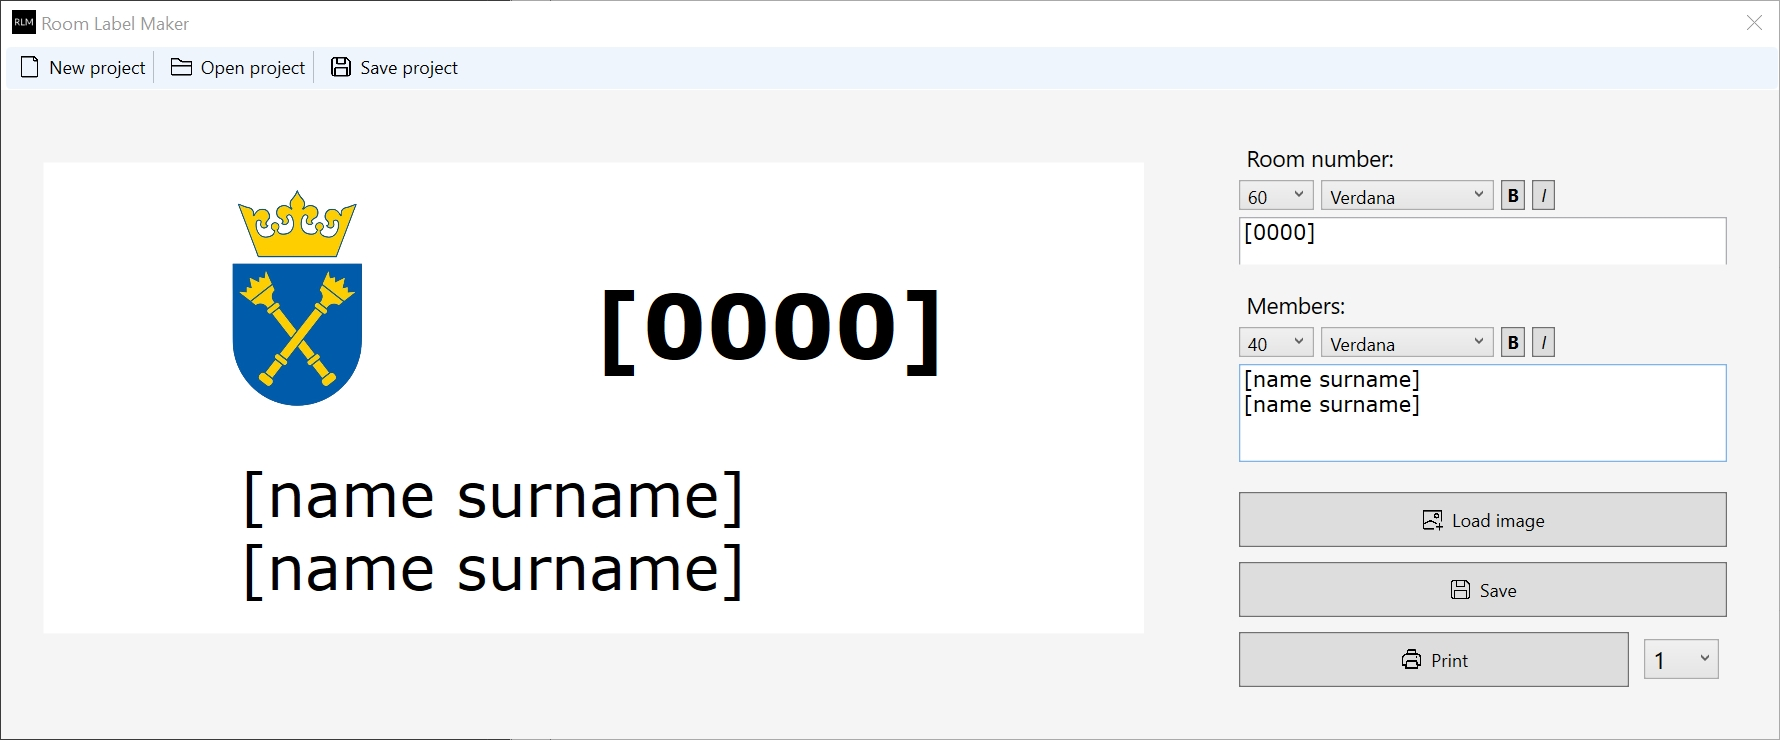
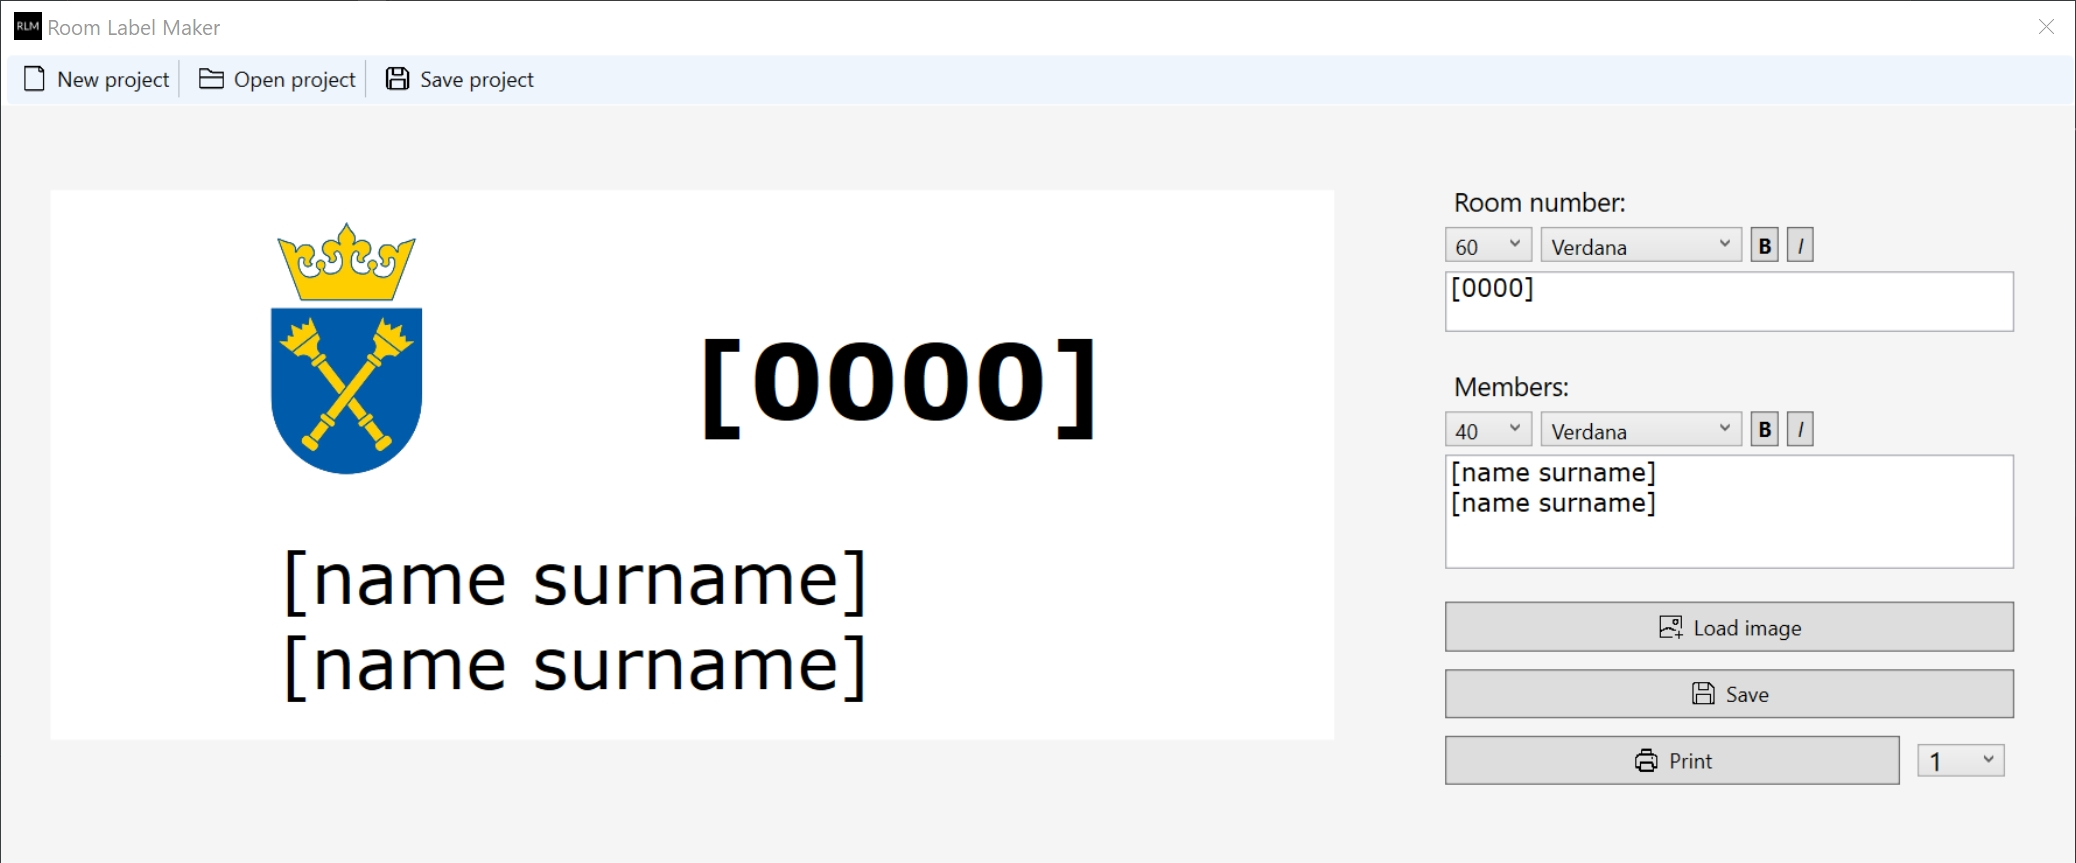
Fix bold, italic, Update readme.md
Fix bold, italic
PrintHelper refactor
Update readme.md

diff --git a/app/RoomLabelMakerApp/Views/MainView.xaml b/app/RoomLabelMakerApp/Views/MainView.xaml
@@ -100,12 +100,13 @@
             <!-- Right panel -->
             <Grid Grid.Column="1" Grid.Row="1" Margin="10">
                 <Grid.RowDefinitions>
-                    <RowDefinition Height="25*"/>
-                    <RowDefinition Height="73*"/>
-                    <RowDefinition Height="148*"/>
-                    <RowDefinition Height="49*"/>
-                    <RowDefinition Height="49*"/>
-                    <RowDefinition Height="49*"/>
+                    <RowDefinition Height="1*"/>
+                    <RowDefinition Height="11*"/>
+                    <RowDefinition Height="14*"/>
+                    <RowDefinition Height="4*"/>
+                    <RowDefinition Height="4*"/>
+                    <RowDefinition Height="4*"/>
+                    <RowDefinition Height="1*"/>
                 </Grid.RowDefinitions>
                 <Grid.ColumnDefinitions>
                     <ColumnDefinition Width="20"/>
@@ -113,8 +114,8 @@
                     <ColumnDefinition Width="20"/>
                 </Grid.ColumnDefinitions>
 
-                <StackPanel Grid.Row="0" Grid.Column="1" Margin="0,0,0,147" Grid.RowSpan="3">
-                    <Label Content="_Room number:" FontSize="15" Margin="5,0,5,0"/>
+                <StackPanel Grid.Row="1" Grid.Column="1">
+                    <Label Content="Room number:" FontSize="15" Margin="5,0,5,0"/>
                     <WrapPanel Height="20">
                         <ComboBox
                             ItemsSource="{Binding FontSizes}"
@@ -154,7 +155,7 @@
                 </StackPanel>
 
                 <StackPanel Grid.Row="2" Grid.Column="1">
-                    <Label Content="_Members:" FontSize="15" Margin="5,5,5,0"/>
+                    <Label Content="Members:" FontSize="15" Margin="5,0,5,0"/>
                     <WrapPanel Height="20">
                         <ComboBox
                             ItemsSource="{Binding FontSizes}"

diff --git a/app/RoomLabelMakerApp/Models/DoorLabelModel.cs b/app/RoomLabelMakerApp/Models/DoorLabelModel.cs
@@ -1,11 +1,4 @@
 using Newtonsoft.Json;
-using RoomLabelMakerApp.Views;
-using System.IO;
-using System.Windows;
-using System.Windows.Controls;
-using System.Windows.Documents;
-using System.Windows.Markup;
-using System.Windows.Xps.Packaging;
 namespace RoomLabelMakerApp.Models;
 
 
@@ -42,58 +35,5 @@ public class DoorLabelModel
         RoomNumber = d.RoomNumber;
         RoomMembers = d.RoomMembers;
         Image = d.Image;
-    }
-
-    public static void Print(FlowDocument flowDocument, int numberOfCopies)
-    {
-        var pd = new PrintDialog();
-        var stringCopy = XamlWriter.Save(flowDocument); // copy to prevent changes to the original Flow Document
-        if (XamlReader.Parse(stringCopy) is not FlowDocument flowDocumentCopy)
-            return;
-
-        CloneBlockInFlowDocument(flowDocumentCopy, numberOfCopies-1);
-
-        flowDocumentCopy.PageHeight = pd.PrintableAreaHeight;
-        flowDocumentCopy.PageWidth = pd.PrintableAreaWidth;
-        flowDocumentCopy.PagePadding = new Thickness(30);
-        flowDocumentCopy.ColumnGap = 0;
-        flowDocumentCopy.ColumnWidth = pd.PrintableAreaWidth;
-
-        
-        try
-        {
-            // create window for print view
-            if (File.Exists("PreviewPrinting.xps"))
-                File.Delete("PreviewPrinting.xps");
-        }
-        catch
-        {
-            // ignored
-        }
-
-        FixedDocumentSequence? document;
-        using (var xpsDocument = new XpsDocument("PreviewPrinting.xps", FileAccess.ReadWrite))
-        {
-            var writer = XpsDocument.CreateXpsDocumentWriter(xpsDocument);
-            writer.Write(((IDocumentPaginatorSource)flowDocumentCopy).DocumentPaginator);
-            document = xpsDocument.GetFixedDocumentSequence();
-        }
-
-        if (document == null) return;
-        var windows = new PrintPreviewView(document);
-        windows.ShowDialog();
-    }
-
-    private static void CloneBlockInFlowDocument(FlowDocument flowDocumentCopy, int numberOfCopies)
-    {
-        var block = flowDocumentCopy.Blocks.FirstBlock;
-        if (block == null) return;
-       
-        for (var i = 0; i < numberOfCopies; i++)
-        {
-            var xamlString = XamlWriter.Save(block);
-            if (XamlReader.Parse(xamlString) is not Block clonedBlock) return;
-            flowDocumentCopy.Blocks.Add(clonedBlock);
-        }
     }
 }

diff --git a/app/RoomLabelMakerApp/Utils/PrintHelper.cs b/app/RoomLabelMakerApp/Utils/PrintHelper.cs
@@ -1,0 +1,64 @@
+using RoomLabelMakerApp.Views;
+using System.IO;
+using System.Windows.Controls;
+using System.Windows.Documents;
+using System.Windows.Xps.Packaging;
+using System.Windows;
+using System.Windows.Markup;
+namespace RoomLabelMakerApp.Utils;
+
+public class PrintHelper
+{
+    public static void Print(FlowDocument flowDocument, int numberOfCopies)
+    {
+        var pd = new PrintDialog();
+        var stringCopy = XamlWriter.Save(flowDocument); // copy to prevent changes to the original Flow Document
+        if (XamlReader.Parse(stringCopy) is not FlowDocument flowDocumentCopy)
+            return;
+
+        CloneBlockInFlowDocument(flowDocumentCopy, numberOfCopies - 1);
+
+        flowDocumentCopy.PageHeight = pd.PrintableAreaHeight;
+        flowDocumentCopy.PageWidth = pd.PrintableAreaWidth;
+        flowDocumentCopy.PagePadding = new Thickness(30);
+        flowDocumentCopy.ColumnGap = 0;
+        flowDocumentCopy.ColumnWidth = pd.PrintableAreaWidth;
+
+
+        try
+        {
+            // create window for print view
+            if (File.Exists("PreviewPrinting.xps"))
+                File.Delete("PreviewPrinting.xps");
+        }
+        catch
+        {
+            // ignored
+        }
+
+        FixedDocumentSequence? document;
+        using (var xpsDocument = new XpsDocument("PreviewPrinting.xps", FileAccess.ReadWrite))
+        {
+            var writer = XpsDocument.CreateXpsDocumentWriter(xpsDocument);
+            writer.Write(((IDocumentPaginatorSource)flowDocumentCopy).DocumentPaginator);
+            document = xpsDocument.GetFixedDocumentSequence();
+        }
+
+        if (document == null) return;
+        var windows = new PrintPreviewView(document);
+        windows.ShowDialog();
+    }
+
+    private static void CloneBlockInFlowDocument(FlowDocument flowDocumentCopy, int numberOfCopies)
+    {
+        var block = flowDocumentCopy.Blocks.FirstBlock;
+        if (block == null) return;
+
+        for (var i = 0; i < numberOfCopies; i++)
+        {
+            var xamlString = XamlWriter.Save(block);
+            if (XamlReader.Parse(xamlString) is not Block clonedBlock) return;
+            flowDocumentCopy.Blocks.Add(clonedBlock);
+        }
+    }
+}

diff --git a/app/RoomLabelMakerApp/ViewModels/MainViewModel.cs b/app/RoomLabelMakerApp/ViewModels/MainViewModel.cs
@@ -166,7 +166,7 @@ public class MainViewModel : INotifyPropertyChanged
 
     private void Print(object obj)
     {
-        DoorLabelModel.Print(_flowDocumentLabelPreview, SelectedNumberOfPrintCopies);
+        PrintHelper.Print(_flowDocumentLabelPreview, SelectedNumberOfPrintCopies);
     }
 
     private void CleanView()
@@ -259,9 +259,9 @@ public class MainViewModel : INotifyPropertyChanged
         }
     }
 
-    private void ToggleButtonClicked(object toggleButton)
+    private void ToggleButtonClicked(object button)
     {
-        if (toggleButton is not ToggleButton tb) return;
+        if (button is not Button tb) return;
         if (tb.Name.Contains("Number"))
         {
             if (tb.Name.Contains("Bold"))

diff --git a/README.md b/README.md
@@ -1,6 +1,6 @@
 # RoomLabelMaker
 
-RoomLabelMaker is a C# WPF project created as part of a C# course at Jagiellonian University.
+RoomLabelMaker is an application developed in C# using WPF and MVVM architecture. It was created as part of a C# course at Jagiellonian University.
 
 ## Authors
 
@@ -13,9 +13,13 @@ RoomLabelMaker is a C# WPF project created as part of a C# course at Jagiellonia
 ## Features
 
 - Create, open and save projects
+
 - Font customization
+
 - Select and load logo image 
+
 - Print your desigend label
+
 - Real-time label previews
   
   ## Screenshots
